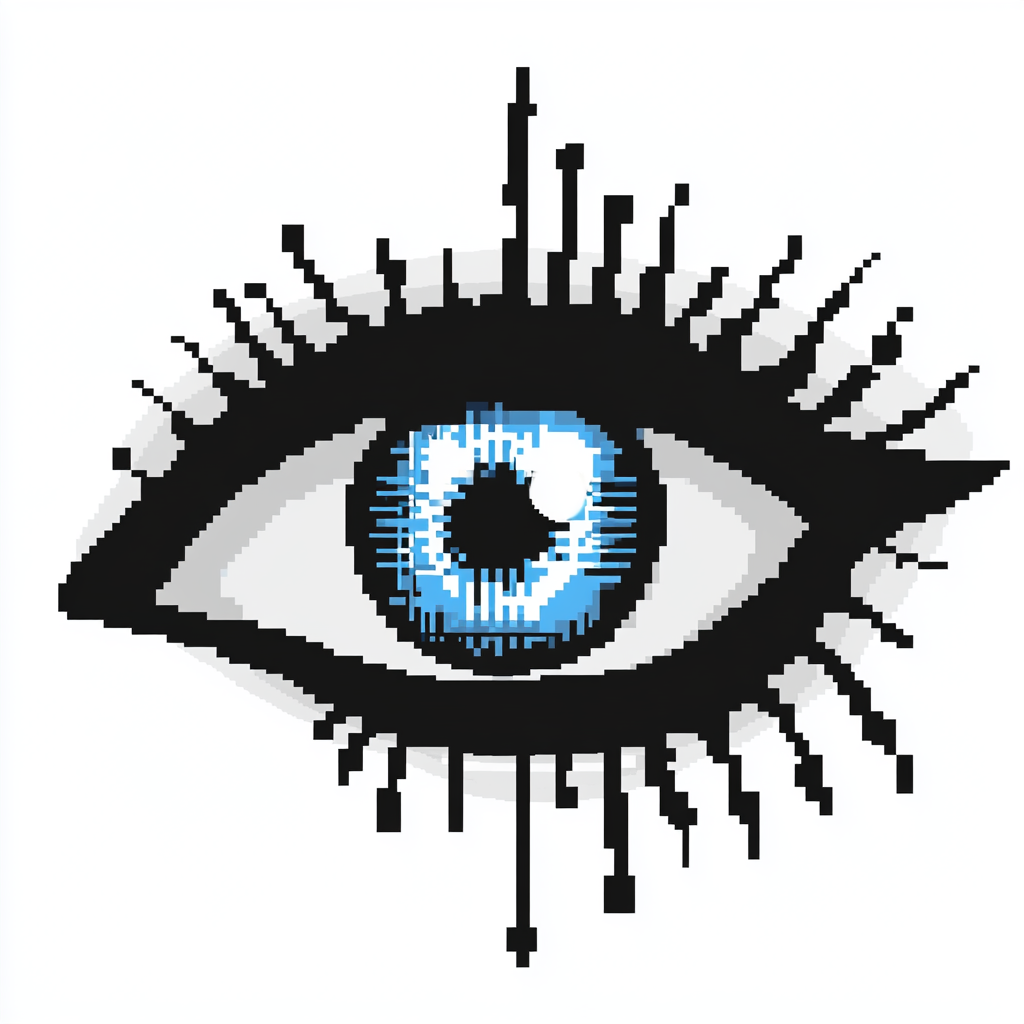
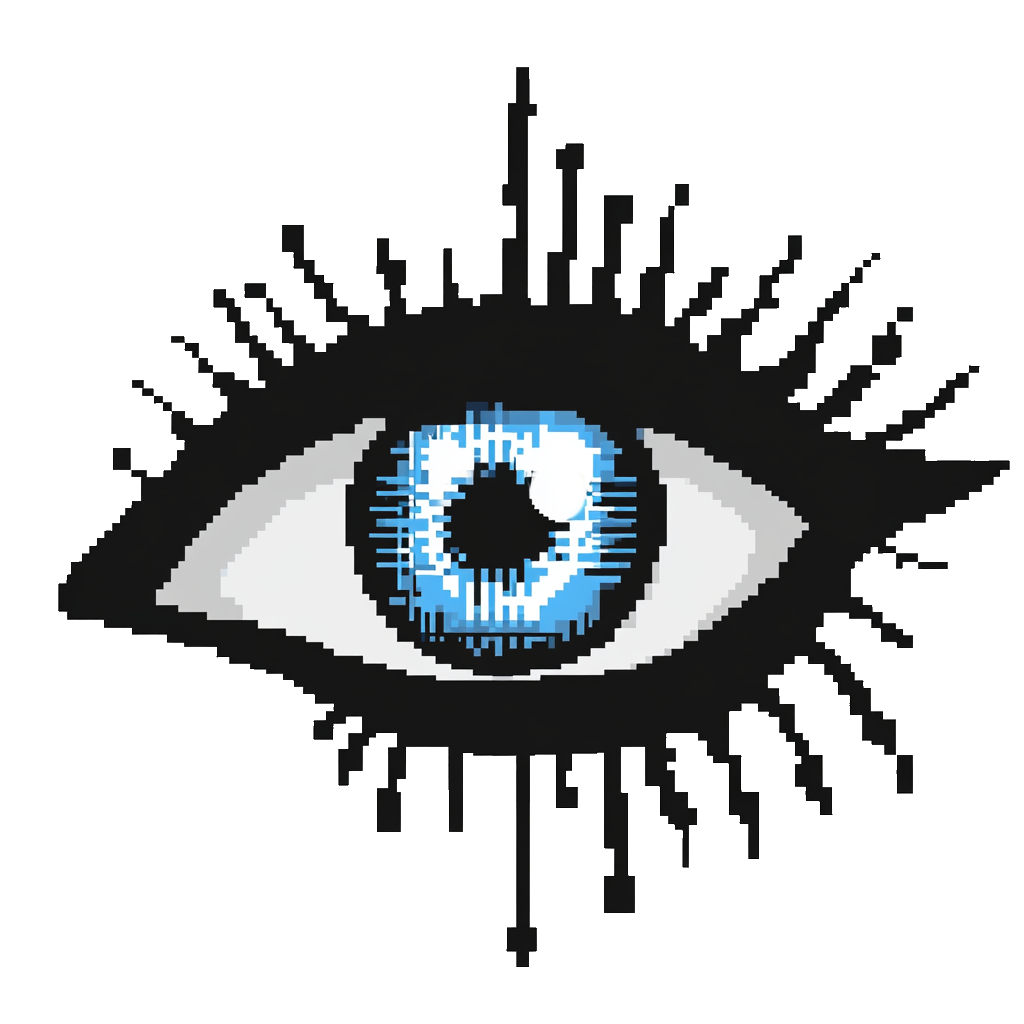
Added shadows on structure technology

diff --git a/frontend/src/Pages/Sandbox/config.ts b/frontend/src/Pages/Sandbox/config.ts
@@ -136,7 +136,7 @@ const technologiesData: TechnologyData[] = [
     extras: ["SpringBoot", "Maven", "CI/CD", "MVC", "FeignClient", "OAUTH2", "Zuul", "Kafka", "PubSub", "Redis Server", "Ribbon", "Design Pattern", "Prometheus", "MongoDB", "CassandraDB", "SQL", "MySQL", "InfluxDB", "ElasticSearch", "GCP", "AWS", "Docker", "Git"],
     position: { x: mainPathConfig.startX + 256, y: 708 },
     image: "/sprites/statues/java.png",
-    //shadow: { height: 100, width:200 , position: {x:20,y:20}},
+    shadow: { height: 50, width:220 , position: {x: 85, y:230}},
     centering : {x: -50, y: 30}
   },
   {
@@ -155,7 +155,8 @@ const technologiesData: TechnologyData[] = [
     extras: ["Flask", "Notebook", "OAUTH2", "CI/CD", "Forecast", "NLP", "Scrapy", "Computer Vision", "Gender Analysis", "Age Analysis", "Meta API", "Kafka", "PubSub", "Prometheus", "MongoDB", "MySQL", "InfluxDB", "Docker", "Git"],
     position: { x: mainPathConfig.startX - 256, y: 964 },
     image: "/sprites/statues/python.png",
-    centering : {x: 0, y: 20}
+    centering : {x: 0, y: 20},
+    shadow: { height: 30, width:140 , position: {x:135, y:240}}
   },
   {
     name: "Golang",
@@ -170,7 +171,9 @@ const technologiesData: TechnologyData[] = [
     extras: ["Gin", "WebSocket", "OAUTH2", "MongoDB", "Docker", "Git"],
     position: { x: mainPathConfig.startX + 512, y: 2776 },
     image: "/sprites/statues/golang.png",
-    centering : {x: -70, y: -10}
+    centering : {x: -70, y: -10},
+    shadow: { height: 20, width:140 , position: {x: 65, y:220}},
+
   },
   {
     name: "JavaScript",
@@ -187,7 +190,8 @@ const technologiesData: TechnologyData[] = [
     extras: ["ES7", "CI/CD", "TypeScript", "ReactJS", "React Native", "365 SDK", "GAM", "Tracking Script"],
     position: { x: mainPathConfig.startX + 256, y: 442 },
     image: "/sprites/statues/javascript.png",
-    centering : {x: -70, y: 10}
+    centering : {x: -70, y: 10},
+    shadow: { height: 30, width:180 , position: {x: 60, y:230}},
   },
   {
     name: "Kafka & Google PubSub",
@@ -202,7 +206,9 @@ const technologiesData: TechnologyData[] = [
     extras: ["10M+ Requests", "Java", "Python", "Docker", "Git"],
     position: { x: mainPathConfig.startX - 256, y: 2372 },
     image: "/sprites/statues/kafka.png",
-    centering : {x: -10, y: 10}
+    centering : {x: -10, y: 10},
+    shadow: { height: 40, width:170 , position: {x:120, y:230}},
+
   },
   {
     name: "MongoDB",
@@ -223,7 +229,9 @@ const technologiesData: TechnologyData[] = [
     ],
     extras: ["2B+ data", "Cluster", "Indexes Optimization", "Docker"],
     position: { x: mainPathConfig.startX - 256, y: 1476 },
-    image: "/sprites/statues/mongodb.png"
+    image: "/sprites/statues/mongodb.png",
+    shadow: { height: 15, width:100 , position: {x:130, y:230}},
+
   },
   {
     name: "CassandraDB",
@@ -237,9 +245,11 @@ const technologiesData: TechnologyData[] = [
       "Aggregation Service for revenue reporting with realtime data"
     ],
     extras: ["5B+ data", "Cluster", "Indexes Optimization", "Docker"],
-    position: { x: mainPathConfig.startX + 256, y: 2500 },
+    position: { x: mainPathConfig.startX + 256, y: 2480 },
     image: "/sprites/statues/cassandra.png",
-    centering : {x: -50, y: 0}
+    centering : {x: -50, y: 0},
+    shadow: { height: 15, width:180 , position: {x:80, y:250}},
+
   },
   {
     name: "ElasticSearch",
@@ -249,9 +259,11 @@ const technologiesData: TechnologyData[] = [
     description: "Centralized logging solution deployed both on cloud and self-hosted environments.",
     projects: ["Advertising Company Platform"],
     extras: ["Cloud", "Docker"],
-    position: { x: mainPathConfig.startX + 512, y: 1988 },
+    position: { x: mainPathConfig.startX + 512, y: 1968 },
     image: "/sprites/statues/elastic.png",
-    centering : {x: -70, y: 0}
+    centering : {x: -70, y: 0},
+    shadow: { height: 15, width:180 , position: {x:60, y:250}},
+
   },
   {
     name: "MySQL & SQL",
@@ -266,7 +278,9 @@ const technologiesData: TechnologyData[] = [
     extras: ["Cluster", "Indexes Optimization", "Docker"],
     position: { x: mainPathConfig.startX - 256, y: 698 },
     image: "/sprites/statues/sql.png",
-    centering : {x: 0, y: 10}
+    centering : {x: 10, y: 10},
+    shadow: { height: 15, width:240 , position: {x:145, y:245}},
+
   },
   {
     name: "Docker",
@@ -290,7 +304,9 @@ const technologiesData: TechnologyData[] = [
     extras: ["Docker", "Docker Compose", "Docker Hub"],
     position: { x: mainPathConfig.startX + 256, y: 1732 },
     image: "/sprites/statues/docker.png",
-    centering : {x: -40, y: 20}
+    centering : {x: -40, y: 0},
+    shadow: { height: 15, width:250 , position: {x:80, y:230}},
+
   },
   {
     name: "Amazon AWS",
@@ -301,7 +317,9 @@ const technologiesData: TechnologyData[] = [
     projects: ["Advertising Company Platform"],
     extras: ["Java", "NiFi", "AWS Cli", "ETL"],
     position: { x: mainPathConfig.startX - 512, y: 1860 },
-    image: "/sprites/statues/aws.png"
+    image: "/sprites/statues/aws.png",
+    shadow: { height:30, width:210 , position: {x:135, y:220}},
+
   },
   {
     name: "Google Cloud Platform",
@@ -317,7 +335,9 @@ const technologiesData: TechnologyData[] = [
     extras: ["Java", "Python", "Terraform", "PubSub"],
     position: { x: mainPathConfig.startX - 256, y: 2116 },
     image: "/sprites/statues/gcp.png",
-    centering : {x: -30, y: 10}
+    centering : {x: -30, y: 0},
+    shadow: { height: 30, width:220 , position: {x:110, y:220}},
+
   },
   {
     name: "Pipelines",
@@ -335,7 +355,9 @@ const technologiesData: TechnologyData[] = [
     extras: ["Java", "Python", "CI/CD", "Talend", "Nifi", "PM2", "ChronJob", "ETL", "OLAP", "Terraform"],
     position: { x: mainPathConfig.startX + 256, y: 2244 },
     image: "/sprites/statues/pipelines.png",
-    centering : {x: -60, y: 0}
+    centering : {x: -60, y: 0},
+    shadow: { height: 30, width:150 , position: {x:70, y:225}},
+
   },
   {
     name: "ETL & OLAP",
@@ -353,7 +375,8 @@ const technologiesData: TechnologyData[] = [
     extras: ["Nifi", "Talend", "Pentaho", "Superset"],
     position: { x: mainPathConfig.startX + 256, y: 1230 },
     image: "/sprites/statues/etl.png",
-    centering : {x: -50, y: 0}
+    centering : {x: -50, y: 0},
+    shadow: { height: 25, width:120 , position: {x:70, y:225}},
   },
   {
     name: "Git",
@@ -377,7 +400,9 @@ const technologiesData: TechnologyData[] = [
     extras: ["CI/CD", "GitLab", "GitHub", "Java", "SpringBoot", "ReactJS", "Python", "Go", "Javascript"],
     position: { x: mainPathConfig.startX - 256, y: 186 },
     image: "/sprites/statues/git.png",
-    centering : {x: 60, y: 0}
+    centering : {x: 60, y: 0},
+    shadow: { height: 25, width:220 , position: {x:135, y:240}},
+
   },
   {
     name: "Artificial Intelligence",
@@ -394,7 +419,9 @@ const technologiesData: TechnologyData[] = [
     extras: ["Python", "NLP", "Gender Analysis", "Age Analysis", "Computer Vision", "Forecast"],
     position: { x: mainPathConfig.startX - 256, y: 2628 },
     image: "/sprites/statues/machinelearning.png",
-    centering : {x:-30, y: 0}
+    centering : {x:-30, y: -10},
+    shadow: { height: 25, width:200 , position: {x:105, y:225}},
+
   }
 ];
 

diff --git a/frontend/src/Components/Structures/Structure.tsx b/frontend/src/Components/Structures/Structure.tsx
@@ -84,7 +84,13 @@ const Structure: React.FC<StructureProps> = ({ data, type, isNearby, playerPosit
         ) : (
           <>
           {data.data.shadow  != undefined ? 
-            <div className="tech-shadow"></div> : <></>
+            <div className="technology-shadow" 
+            style={{
+              left: data.data.shadow.position.x,
+              top: data.data.shadow.position.y,
+              width: data.data.shadow.width,
+              height: data.data.shadow.height,
+            }}/> : <></>
           }
             <img 
                 src={getStructureIcon()}

diff --git a/frontend/src/Components/Structures/Structure.css b/frontend/src/Components/Structures/Structure.css
@@ -30,6 +30,14 @@
   margin-left: -70px;
 }
 
+.technology-shadow {
+  position: absolute;
+  transform: translateX(-50%);
+  background: rgba(0, 0, 0, 0.3);
+  border-radius: 50%;
+  z-index: -1;
+}
+
 /* Special styling for future opportunity */
 .structure-container.future-opportunity .structure-sprite {
   background: linear-gradient(135deg, #ffd700, #ffed4e);
